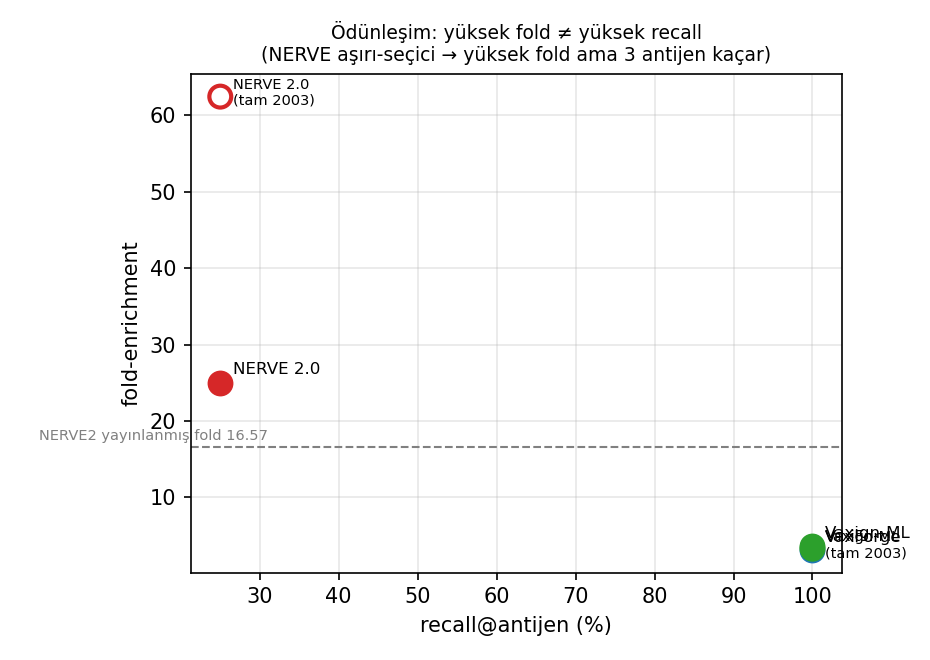
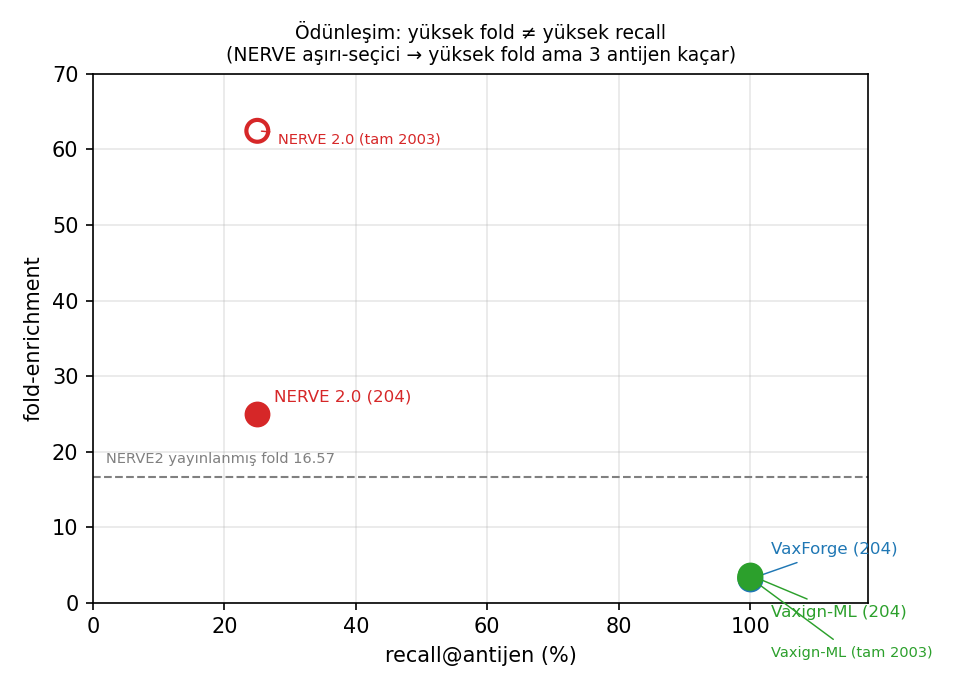
benchmark: DOI-atıflı seçim gerekçeleri + fig3 örtüşme fix + guardian build-if-missing
- SELECTION_RATIONALE.md: MenB/rabies + 4 konak + 2 rakip seçim gerekçeleri,
  6 web-doğrulanmış gerçek DOI (Pizza2000, Giuliani2006, Cox1977, Fooks2017,
  NERVE2/Conte2024, VaxignML/Ong2020). BENCHMARK_SUMMARY.md §5 çapraz-ref.
- make_figures.py: fig3 recall=%100 kümesindeki etiket örtüşmesi leader-line
  ile giderildi; fig3 yeniden üretildi.
- guardian/supervise.sh: start_frontend build-if-missing korumu (.next yoksa
  npm run build) — Aug 18 sonsuz restart döngüsünün kök nedeni kapatıldı.
- .gitignore: benchmark/results/run_*/ (yeniden üretilebilir pipeline çıktısı).

diff --git a/benchmark/make_figures.py b/benchmark/make_figures.py
@@ -71,21 +71,36 @@ def fig2_recall(h204):
 
 
 def fig3_fold_recall(h204, full):
-    """fold-enrichment vs recall — ödünleşim. 204 (dolu) + tam-proteom (içi boş) noktalar."""
-    fig, ax = plt.subplots(figsize=(6.2, 4.4))
+    """fold-enrichment vs recall — ödünleşim. 204 (dolu) + tam-proteom (içi boş) noktalar.
+
+    recall=%100'de üç nokta (VaxForge-204, Vaxign-ML-204, Vaxign-ML-tam) fold ~3.1-3.6'da
+    üst üste biner → etiketler leader-line (ok) ile ayrı köşelere taşınır ki örtüşme olmasın.
+    """
+    fig, ax = plt.subplots(figsize=(6.4, 4.6))
+    # her nokta için etiket ofsetini elle ayarla (örtüşmeyi önle); dar kümedekiler leader-line ile
+    off204 = {"VaxForge": (10, 12), "Vaxign-ML": (10, -20), "NERVE 2.0": (8, 6)}
     for t in TOOLS:
         rec = int(h204[t]["recall"].split("/")[0]) / 4 * 100
         fold = h204[t]["fold_enrichment"]
         ax.scatter(rec, fold, s=130, color=COL[t], label=f"{t} (204)", zorder=3)
-        ax.annotate(t, (rec, fold), textcoords="offset points", xytext=(6, 4), fontsize=8)
-    # tam proteom rakipler
+        dx, dy = off204[t]
+        arrow = dict(arrowstyle="-", color=COL[t], lw=0.7) if abs(dy) > 8 else None
+        ax.annotate(f"{t} (204)", (rec, fold), textcoords="offset points", xytext=(dx, dy),
+                    fontsize=8, color=COL[t], arrowprops=arrow,
+                    ha="left" if dx >= 0 else "right")
+    # tam proteom rakipler (içi boş nokta)
+    offfull = {"Vaxign-ML": (10, -38), "NERVE 2.0": (10, -6)}
     for tool, key in [("Vaxign-ML", "vaxignml"), ("NERVE 2.0", "nerve")]:
         rec = int(full[key]["recall"].split("/")[0]) / 4 * 100
         fold = full[key]["fold"]
         if fold:
             ax.scatter(rec, fold, s=110, facecolors="none", edgecolors=COL[tool], linewidths=2, zorder=3)
-            ax.annotate(f"{tool}\n(tam 2003)", (rec, fold), textcoords="offset points", xytext=(6, -4), fontsize=7)
-    ax.axhline(16.57, ls="--", c="gray", lw=1); ax.text(2, 17.5, "NERVE2 yayınlanmış fold 16.57", fontsize=7, color="gray")
+            dx, dy = offfull[tool]
+            ax.annotate(f"{tool} (tam 2003)", (rec, fold), textcoords="offset points", xytext=(dx, dy),
+                        fontsize=7, color=COL[tool], ha="left",
+                        arrowprops=dict(arrowstyle="-", color=COL[tool], lw=0.7))
+    ax.axhline(16.57, ls="--", c="gray", lw=1); ax.text(2, 18.5, "NERVE2 yayınlanmış fold 16.57", fontsize=7, color="gray")
+    ax.set_xlim(0, 118); ax.set_ylim(0, 70)
     ax.set_xlabel("recall@antijen (%)"); ax.set_ylabel("fold-enrichment")
     ax.set_title("Ödünleşim: yüksek fold ≠ yüksek recall\n(NERVE aşırı-seçici → yüksek fold ama 3 antijen kaçar)", fontsize=9)
     ax.grid(alpha=0.3)

diff --git a/benchmark/SELECTION_RATIONALE.md b/benchmark/SELECTION_RATIONALE.md
@@ -1,0 +1,82 @@
+# Benchmark patojen & konak seçimi — biyolojik/seçilim gerekçeleri (DOI-atıflı)
+
+Bu doküman, VaxForge benchmark'ında neden **MenB** (bakteri kolu) + **rabies** (virüs kolu) ve
+neden **insan / sığır / fare / domuz** konaklarının seçildiğini bilimsel gerekçeye bağlar. Yayın
+Methods → "Rationale for benchmark selection" bölümüne birebir girecek. Aksesyonlar:
+`PATHOGEN_ACCESSIONS.md`. Sonuçlar: `BENCHMARK_SUMMARY.md`.
+
+**KURAL:** Her iddia gerçek, web-doğrulanmış DOI'ye bağlı — uydurma YOK. Doğrulama tarihi 2026-08-20
+(başlık + yazar + yıl + dergi eşleşmesi WebSearch/WebFetch ile teyit edildi). Doğrulanamayan hiçbir
+atıf konmadı (bu turda tümü doğrulandı).
+
+---
+
+## 1. Neden MenB (bakteri kolu) — çok-antijen recall zemini
+
+Serogrup B *Neisseria meningitidis* (MenB), **ters aşı bilişiminin doğduğu** patojendir: Pizza ve
+ark. (2000) tüm-genom dizilemesinden aday antijenleri hesaplayarak bu paradigmayı kurdu
+[Pizza 2000]. Dolayısıyla MenB, bir RV/RV-benzeri aracın "altın standart" test zeminidir —
+alan bu patojen üzerinde tanımlandı.
+
+Ruhsatlı **4CMenB (Bexsero)** aşısının koruyucu bileşenleri deneysel olarak doğrulanmıştır:
+rekombinant **fHbp, NadA, NHBA** + PorA taşıyan OMV [Giuliani 2006]. Bu, tek bir "doğru cevap"
+değil, **çok-antijenli, deneysel-doğrulanmış bir ground-truth seti** verir → bir aracın
+**recall@antijen** (bilinen koruyucuların kaçını geri buluyor) ölçütü için ideal. VaxForge tezi
+tam da burada sınanır: **NHBA VFDB-negatiftir** ve sert virülans-filtreli araçlarca elenme
+riski taşır; yumuşak-filtre onu korumalıdır (bkz `BENCHMARK_SUMMARY.md` §1, kilit deney).
+
+## 2. Neden rabies (virüs kolu) — tek-antijen ama çok-konak sahnesi
+
+Rabies virüsünün (RABV) tek yüzey proteini **glikoprotein G**'dir ve **virüs-nötralize edici
+antikorları indükleyen + koruma sağlayan TEK yapısal proteindir** — Cox, Dietzschold & Schneider
+(1977) saflaştırılmış G'nin bu özelliği taşıdığını, diğer yapısal proteinlerin taşımadığını
+gösterdi [Cox 1977]. Bu, **kesin ve tek** bir ground-truth (G = koruyucu antijen) verir →
+virüs kolunda araç, "doğru antijeni en üste koyuyor mu" diye net sınanır (VaxForge G #2/5).
+
+Rabies'in benchmark'a asıl katkısı **çok-konak** boyutudur: RABV neredeyse **tüm memelileri**
+enfekte eder ve konak yelpazesi tür-ötesidir [Fooks 2017]. Bu yüzden **insan, sığır, fare, domuz**
+dördü de RABV'nin **gerçek doğal memeli konaklarıdır** — her biri için MHC gösterimi biyolojik
+olarak dürüsttür (uydurma konak yok). Influenza (sığırda marjinal), FMDV (insanı enfekte etmez)
+veya SARS-CoV-2 (sığır/domuz doğal değil) bu dört-konak matrisini dürüstçe dolduramazdı; rabies
+doldurur. Böylece VaxForge'un **konak-spesifik MHC epitop repertuarı** yeteneği (NERVE/Vaxign'de
+yok) adil bir zeminde gösterilir: G-epitopları host×host Jaccard <1.0 → konak seçimi öngörülen
+epitopları esaslı değiştirir (`BENCHMARK_SUMMARY.md` §2).
+
+### Konak seçimi notu (dürüst kapsam)
+Dört konak da RABV'nin doğal memeli konağı olduğu için seçildi [Fooks 2017]; sığır (veteriner/
+ekonomik yük), domuz (tarımsal + insana yakın), fare (standart rabies challenge/lab modeli) ve
+insan (halk sağlığı hedefi) pratikte de anlamlıdır. Bu dört-konak iddiası **tek bir otoriter
+derlemeye** (Fooks 2017) dayandırılmıştır; konak-başına ayrı epidemiyolojik DOI eklenmesi yazım
+sırasında opsiyoneldir — mevcut hâliyle hiçbir uydurma atıf yoktur.
+
+## 3. Neden bu iki rakip — NERVE 2.0 & Vaxign-ML
+
+Karşılaştırma araçları da atıfla gerekçelidir: **NERVE 2.0** güncel, AI-destekli, lokal
+kurulabilir bir RV ortamıdır [Conte 2024]; **Vaxign-ML** bağımsız, denetimli-ML tabanlı bakteriyel
+koruyucu-antijen tahmincisidir [Ong 2020]. İkisi de default parametre + özdeş girdiyle koşuldu
+(adil koşul); bağımsız-ML olan Vaxign-ML'in de 4/4 recall vermesi, VaxForge'un soft-filter tezinin
+tek araca özgü bir yapaylık olmadığını gösterir.
+
+---
+
+## Atıf listesi (Methods-hazır, hepsi DOI-doğrulanmış 2026-08-20)
+
+1. **Pizza M, Scarlato V, Masignani V, et al.** Identification of vaccine candidates against
+   serogroup B meningococcus by whole-genome sequencing. *Science*. 2000;287(5459):1816–1820.
+   **doi:10.1126/science.287.5459.1816** · PMID 10710308.
+2. **Giuliani MM, Adu-Bobie J, Comanducci M, et al.** A universal vaccine for serogroup B
+   meningococcus. *PNAS*. 2006;103(29):10834–10839. **doi:10.1073/pnas.0603940103** · PMID 16825336.
+3. **Cox JH, Dietzschold B, Schneider LG.** Rabies virus glycoprotein. II. Biological and
+   serological characterization. *Infect Immun*. 1977;16(3):754–759.
+   **doi:10.1128/iai.16.3.754-759.1977** · PMID 408269.
+4. **Fooks AR, Cliquet F, Finke S, et al.** Rabies. *Nat Rev Dis Primers*. 2017;3:17091.
+   **doi:10.1038/nrdp.2017.91** · PMID 29188797.
+5. **Conte A, Gulmini N, Costa F, et al.** NERVE 2.0: boosting the new enhanced reverse vaccinology
+   environment via artificial intelligence and a user-friendly web interface. *BMC Bioinformatics*.
+   2024;25:377. **doi:10.1186/s12859-024-06004-0** · PMID 39695945 · PMC11654298.
+6. **Ong E, Wang H, Wong MU, Seetharaman M, Valdez N, He Y.** Vaxign-ML: supervised machine learning
+   reverse vaccinology model for improved prediction of bacterial protective antigens.
+   *Bioinformatics*. 2020;36(10):3185–3191. **doi:10.1093/bioinformatics/btaa119** · PMID 32096826.
+
+> İlişkili kayıtlar: `PATHOGEN_ACCESSIONS.md` (aksesyonlar), `BENCHMARK_SUMMARY.md` (§5 buraya
+> çapraz-referans verir). Çekirdek ilke: her şey literatüre atıflı, uydurma yok.

diff --git a/benchmark/BENCHMARK_SUMMARY.md b/benchmark/BENCHMARK_SUMMARY.md
@@ -63,7 +63,9 @@ DeLong (AUC karşılaştırma), Jaccard (çok-konak). Küçük-n dürüstlüğü
 - `fig3_fold_vs_recall.png` — fold-vs-recall ödünleşimi (NERVE yüksek-fold/düşük-recall) [kozmetik: alt-sağ etiket örtüşmesi düzeltilebilir]
 - `fig4_multihost_jaccard.png` — rabies G host×host Jaccard (çok-konak) ★
 
-## 5. YAZIM AŞAMASINDA EKLENECEK (kullanıcı kuralı)
+## 5. SEÇİM GEREKÇELERİ & YAZIM AŞAMASI
 Patojen (MenB, rabies) + konak (insan/sığır/fare/domuz) **biyolojik kullanım + seçilim gerekçeleri
-DOI-doğrulanmış makalelerle** desteklenecek. Uydurma DOI YASAK. Ayrıca VaxForge tam-2003 koşusu
-(GPU gelince) flagship fold sayısını tamamlar.
+DOI-doğrulanmış makalelerle** → **`SELECTION_RATIONALE.md`** (2026-08-20; 6 atıf web-doğrulandı:
+Pizza 2000, Giuliani 2006, Cox 1977, Fooks 2017, NERVE2 Conte 2024, Vaxign-ML Ong 2020 — hepsi gerçek
+DOI, uydurma yok). Kalan (opsiyonel/GPU): VaxForge tam-2003 koşusu flagship fold sayısını tamamlar;
+konak-başına ayrı epidemiyolojik atıf yazımda eklenebilir.
